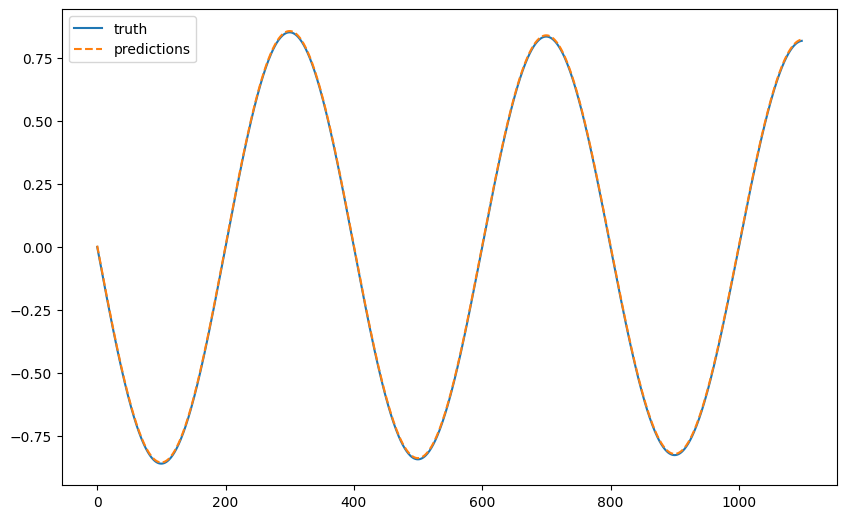
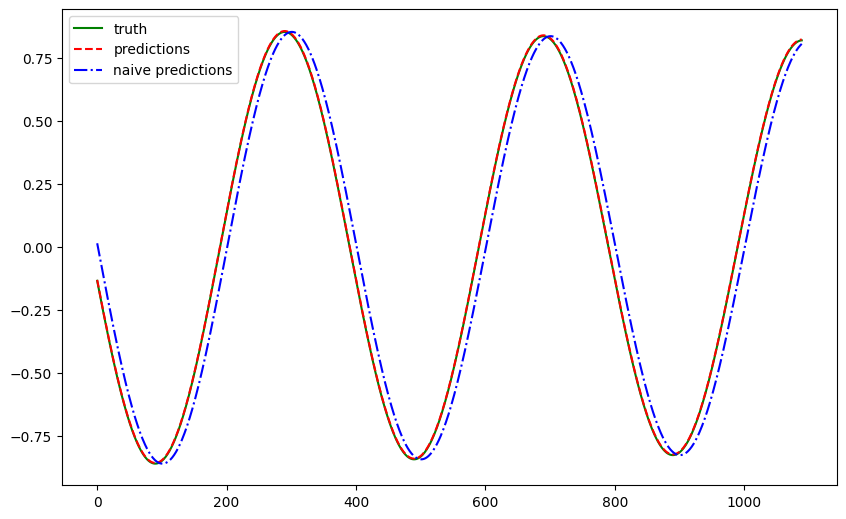
update neuralode

diff --git a/dl/notebooks/neuralode_timeseries.py b/dl/notebooks/neuralode_timeseries.py
@@ -34,15 +34,9 @@ from loguru import logger
 from torch import nn
 from torch.utils.data import DataLoader, Dataset
 from torchdyn.core import NeuralODE
-from torchmetrics import MetricCollection
-from torchmetrics.regression import (
-    MeanAbsoluteError,
-    MeanAbsolutePercentageError,
-    MeanSquaredError,
-    SymmetricMeanAbsolutePercentageError,
-)
-from ts_dl_utils.datasets.dataset import DataFrameDataset
 from ts_dl_utils.datasets.pendulum import Pendulum, PendulumDataModule
+from ts_dl_utils.evaluation.evaluator import Evaluator
+from ts_dl_utils.naive_forecasters.last_observation import LastObservationForecaster
 
 # -
 
@@ -153,8 +147,12 @@ class TSNODE(nn.Module):
 
 # ### Training Utilities
 
-history_length = 100
-horizon = 1
+# +
+history_length_1_step = 100
+horizon_1_step = 1
+
+gap = 10
+# -
 
 
 # We will build a few utilities
@@ -184,7 +182,7 @@ class NODEForecaster(L.LightningModule):
 
     def training_step(self, batch, batch_idx):
         x, y = batch
-        x = x.squeeze().type(self.dtype)
+        x = x.squeeze(-1).type(self.dtype)
         y = y.squeeze(-1).type(self.dtype)
 
         t_, y_hat = self.neural_ode(x, self.time_span)
@@ -196,7 +194,7 @@ class NODEForecaster(L.LightningModule):
 
     def validation_step(self, batch, batch_idx):
         x, y = batch
-        x = x.squeeze().type(self.dtype)
+        x = x.squeeze(-1).type(self.dtype)
         y = y.squeeze(-1).type(self.dtype)
 
         t_, y_hat = self.neural_ode(x, self.time_span)
@@ -208,7 +206,7 @@ class NODEForecaster(L.LightningModule):
 
     def predict_step(self, batch, batch_idx):
         x, y = batch
-        x = x.squeeze().type(self.dtype)
+        x = x.squeeze(-1).type(self.dtype)
         y = y.squeeze(-1).type(self.dtype)
 
         t_, y_hat = self.neural_ode(x, self.time_span)
@@ -217,7 +215,7 @@ class NODEForecaster(L.LightningModule):
         return x, y_hat
 
     def forward(self, x):
-        x = x.squeeze().type(self.dtype)
+        x = x.squeeze(-1).type(self.dtype)
         t_, y_hat = self.neural_ode(x, self.time_span)
         y_hat = y_hat[-1, ..., -self.horizon :]
         return x, y_hat
@@ -227,74 +225,178 @@ class NODEForecaster(L.LightningModule):
 
 # #### DataModule
 
-ds = DataFrameDataset(dataframe=df, history_length=history_length, horizon=horizon)
-
-len(ds)
-
-pdm = PendulumDataModule(
-    history_length=history_length, horizon=horizon, dataframe=df[["theta"]]
+pdm_1_step = PendulumDataModule(
+    history_length=history_length_1_step, horizon=horizon_1_step, dataframe=df[["theta"]],
+    gap=gap
 )
 
 # #### LightningModule
 
 # +
-ts_model_params = TSNODEParams(hidden_widths=[256], time_span=torch.linspace(0, 1, 101))
+ts_model_params_1_step = TSNODEParams(hidden_widths=[256], time_span=torch.linspace(0, 1, 101))
 
-ts_node = TSNODE(
-    history_length=history_length,
-    horizon=horizon,
-    model_params=ts_model_params,
+ts_node_1_step = TSNODE(
+    history_length=history_length_1_step,
+    horizon=horizon_1_step,
+    model_params=ts_model_params_1_step,
 )
 
-ts_node
+ts_node_1_step
 # -
 
-node_forecaster = NODEForecaster(model=ts_node)
+node_forecaster_1_step = NODEForecaster(model=ts_node_1_step)
 
 # #### Trainer
 
-trainer = L.Trainer(
+# +
+logger_1_step = L.pytorch.loggers.TensorBoardLogger(
+    save_dir="lightning_logs", name="neuralode_ts_1_step"
+)
+
+trainer_1_step = L.Trainer(
     precision="32",
     max_epochs=10,
     min_epochs=5,
     callbacks=[
         EarlyStopping(monitor="val_loss", mode="min", min_delta=1e-4, patience=2)
     ],
+    logger=logger_1_step
 )
+# -
 
 # #### Fitting
 
-trainer.fit(model=node_forecaster, datamodule=pdm)
+trainer_1_step.fit(model=node_forecaster_1_step, datamodule=pdm_1_step)
 
 # #### Retrieving Predictions
 
-predictions = trainer.predict(model=node_forecaster, datamodule=pdm)
+predictions_1_step = trainer_1_step.predict(model=node_forecaster_1_step, datamodule=pdm_1_step)
 
-prediction_inputs = [i[0] for i in pdm.predict_dataloader()]
-prediction_truths = [i[1].squeeze() for i in pdm.predict_dataloader()]
+# ### Naive Forecasters
 
-# ## Results
+# +
+trainer_naive_1_step = L.Trainer(precision="64")
 
-y_test_pred = predictions[0][1].squeeze().detach().numpy()
-y_test_truth = prediction_truths[0].numpy()
+lobs_forecaster_1_step = LastObservationForecaster(horizon=horizon_1_step)
+lobs_1_step_predictions = trainer_naive_1_step.predict(
+    model=lobs_forecaster_1_step, datamodule=pdm_1_step
+)
+# -
+
+# ## Evaluations
+
+evaluator_1_step = Evaluator(step=0)
 
 # +
 fig, ax = plt.subplots(figsize=(10, 6.18))
 
-ax.plot(y_test_truth, label="truth")
+ax.plot(
+    evaluator_1_step.y_true(dataloader=pdm_1_step.predict_dataloader()),
+    "g-",
+    label="truth",
+)
 
-ax.plot(y_test_pred, "--", label="predictions")
+ax.plot(evaluator_1_step.y(predictions_1_step), "r--", label="predictions")
+
+ax.plot(evaluator_1_step.y(lobs_1_step_predictions), "b-.", label="naive predictions")
 
 plt.legend()
 # -
 
 # To quantify the results, we compute a few metrics.
 
-all_metrics = MetricCollection(
-    MeanAbsoluteError(),
-    MeanAbsolutePercentageError(),
-    MeanSquaredError(),
-    SymmetricMeanAbsolutePercentageError(),
+evaluator_1_step.metrics(predictions_1_step, pdm_1_step.predict_dataloader())
+
+evaluator_1_step.metrics(lobs_1_step_predictions, pdm_1_step.predict_dataloader())
+
+# ## Forecasting (horizon=3)
+
+# ### Train a Model
+
+history_length_m_step = 100
+horizon_m_step = 3
+
+pdm_m_step = PendulumDataModule(
+    history_length=history_length_m_step,
+    horizon=horizon_m_step,
+    dataframe=df[["theta"]],
+    gap=gap,
 )
 
-all_metrics(predictions[0][1].squeeze().detach(), prediction_truths[0])
+# +
+ts_model_params_m_step = TSNODEParams(hidden_widths=[256], time_span=torch.linspace(0, 1, 101))
+
+ts_node_m_step = TSNODE(
+    history_length=history_length_m_step,
+    horizon=horizon_m_step,
+    model_params=ts_model_params_m_step,
+)
+
+ts_node_m_step
+# -
+
+node_forecaster_m_step = NODEForecaster(model=ts_node_m_step)
+
+# +
+logger_m_step = L.pytorch.loggers.TensorBoardLogger(
+    save_dir="lightning_logs", name="neuralode_ts_m_step"
+)
+
+trainer_m_step = L.Trainer(
+    precision="32",
+    max_epochs=10,
+    min_epochs=5,
+    callbacks=[
+        EarlyStopping(monitor="val_loss", mode="min", min_delta=1e-4, patience=2)
+    ],
+    logger=logger_m_step
+)
+# -
+
+trainer_m_step.fit(model=node_forecaster_m_step, datamodule=pdm_m_step)
+
+predictions_m_step = trainer_m_step.predict(model=node_forecaster_m_step, datamodule=pdm_m_step)
+
+# ### Naive Forecaster
+
+# +
+trainer_naive_m_step = L.Trainer(precision="64")
+
+lobs_forecaster_m_step = LastObservationForecaster(horizon=horizon_m_step)
+lobs_m_step_predictions = trainer_naive_m_step.predict(
+    model=lobs_forecaster_m_step, datamodule=pdm_m_step
+)
+# -
+
+# ### Evaluations
+
+evaluator_m_step = Evaluator(step=2, gap=gap)
+
+# +
+fig, ax = plt.subplots(figsize=(10, 6.18))
+
+ax.plot(
+    evaluator_m_step.y_true(dataloader=pdm_m_step.predict_dataloader()),
+    "g-",
+    label="truth",
+)
+
+ax.plot(evaluator_m_step.y(predictions_m_step), "r--", label="predictions")
+
+ax.plot(evaluator_m_step.y(lobs_m_step_predictions), "b-.", label="naive predictions")
+
+plt.legend()
+
+# +
+fig, ax = plt.subplots(figsize=(10, 6.18))
+
+
+for i in np.arange(0, 1000, 120):
+    evaluator_m_step.plot_one_sample(ax=ax, predictions=predictions_m_step, idx=i)
+# -
+
+evaluator_m_step.metrics(predictions_m_step, pdm_m_step.predict_dataloader())
+
+evaluator_m_step.metrics(lobs_m_step_predictions, pdm_m_step.predict_dataloader())
+
+

diff --git a/dl/time-series-deep-learning/timeseries.neural-ode.md b/dl/time-series-deep-learning/timeseries.neural-ode.md
@@ -1,16 +1,19 @@
 # Time Series Forecasting with Neural ODE
 
 !!! info ":material-code-json: Jupyter Notebook Available"
+
     We have a [:notebook: notebook](../../notebooks/neuralode_timeseries) for this section which includes all the code used in this section.
 
 
-!!! info ":simple-abstract: Introduction to Neural Networks"
-    We explain the theories of neural networks in [this section](../dynamical-systems/neural-ode.md). Please read it first if you are not familiar with neural ode.
+!!! info ":simple-abstract: Introduction to Neural ODE"
+
+    We explain the theories of neuralode in [this section](../dynamical-systems/neural-ode.md). Please read it first if you are not familiar with neural ode.
 
 
 In the section [Neural ODE](../dynamical-systems/neural-ode.md), we have introduced the concept of neural ODE. In this section, we will show how to use neural ODE to do time series forecasting.
 
-## A Nueral ODE Model
+
+## A Neural ODE Model
 
 We built a single hidden layer neural network as the field,
 
@@ -35,16 +38,35 @@ The model is built using the package called [torchdyn](https://github.com/DiffEq
     Apart from the torchdyn package we used here, there is another package called [torchdiffeq](https://github.com/rtqichen/torchdiffeq) [@Chen_torchdiffeq_2021] which is developed by the authors of neural ode.
 
 
-## Result
+## Single Step Forecasts
 
-We trained the model using history length of 100 and only forecast one step ahead. The result is shown below.
+We trained the model using a history length of 100 and only forecast one step (with a gap of 3 between the input and target). The result is shown below.
 
 ![Results](../assets/timeseries.neural-ode/neuralode_univariate_results.png)
 
-The metrics are also computed and listed below.
+Neural ODE is a good forecaster for our pendulum dataset since the pendulum is simply generated by a differential equation. The metrics are also computed and listed below.
 
-| Metric | Value |
-| --- | --- |
-| Mean Absolute Error | 0.0049 |
-| Mean Squared Error | 2.4341e-05 |
-| Symmetric Mean Absolute Percentage Error | 0.0315 |
+| Metric | Neural ODE | Naive |
+| --- | --- | ---- |
+| Mean Absolute Error | **0.003052** | 0.092666 |
+| Mean Squared Error | **0.000009** | 0.010553 |
+| Symmetric Mean Absolute Percentage Error | **0.021231** | 0.376550 |
+
+
+??? info "Training"
+
+    The training loss is shown below.
+
+    ![Training](../assets/timeseries.neural-ode/neuralode_univariate_single_step_training.png)
+
+
+## Multi-Step Forecasts
+
+We perform a similar experiment but forecast 3 steps.
+
+
+| Metric | Neural ODE | Naive |
+| --- | --- | ---- |
+| Mean Absolute Error |  |  |
+| Mean Squared Error |  |  |
+| Symmetric Mean Absolute Percentage Error |  |  |

diff --git a/dl/time-series-deep-learning/timeseries.feedforward.md b/dl/time-series-deep-learning/timeseries.feedforward.md
@@ -139,9 +139,9 @@ The feedforward neural network learned the damped sine wave pattern of the pendu
 
 | Metric                                   | FFN    | Naive      |
 | ---------------------------------------- | ------ | ---------- |
-| Mean Absolute Error                      | 0.0251 | 0.0084     |
-| Mean Squared Error                       | 0.0010 | 8.7556e-05 |
-| Symmetric Mean Absolute Percentage Error | 0.1115 | 0.0630     |
+| Mean Absolute Error                      | **0.017704** |   0.092666  |
+| Mean Squared Error                       | **0.000571** | 0.010553 |
+| Symmetric Mean Absolute Percentage Error | **0.010806** |  0.050442    |
 
 Since the differences between each time step are small, the naive forecast performs quite well.
 
@@ -159,6 +159,6 @@ To observe the quality of the whole time range, we plot out the first forecast s
 
 | Metric | FFN | Naive |
 | --- | --- | --- |
-| Mean Absolute Error | 0.024640 | 0.109485 |
-| Mean Squared Error | 0.001116 | 0.014723 |
-| Symmetric Mean Absolute Percentage Error | 0.015637 | 0.059591 |
+| Mean Absolute Error | **0.024640** | 0.109485 |
+| Mean Squared Error | **0.001116** | 0.014723 |
+| Symmetric Mean Absolute Percentage Error | **0.015637** | 0.059591 |

diff --git a/dl/time-series-deep-learning/timeseries.transformer.md b/dl/time-series-deep-learning/timeseries.transformer.md
@@ -63,9 +63,9 @@ The forecasts roughly captured the patterns of the pendulum. To quantify the res
 
 | Metric | Vanilla Transformer | Naive |
 | --- | --- | --- |
-| Mean Absolute Error | 0.050232 | 0.092666 |
-| Mean Squared Error | 0.003625 | 0.010553 |
-| Symmetric Mean Absolute Percentage Error | 0.108245 | 0.376550 |
+| Mean Absolute Error | **0.050232** | 0.092666 |
+| Mean Squared Error | **0.003625** | 0.010553 |
+| Symmetric Mean Absolute Percentage Error | **0.108245** | 0.376550 |
 
 
 ## Multi-horizon Forecasting
@@ -82,9 +82,9 @@ The following is a table of the metrics.
 
 | Metric | Vanilla Transformer | Naive |
 | --- | --- | --- |
-| Mean Absolute Error | 0.057219 | 0.109485 |
-| Mean Squared Error | 0.004241 | 0.014723 |
-| Symmetric Mean Absolute Percentage Error | 0.112247 | 0.423563 |
+| Mean Absolute Error | **0.057219** | 0.109485 |
+| Mean Squared Error | **0.004241** | 0.014723 |
+| Symmetric Mean Absolute Percentage Error | **0.112247** | 0.423563 |
 
 
 ## Generalization
